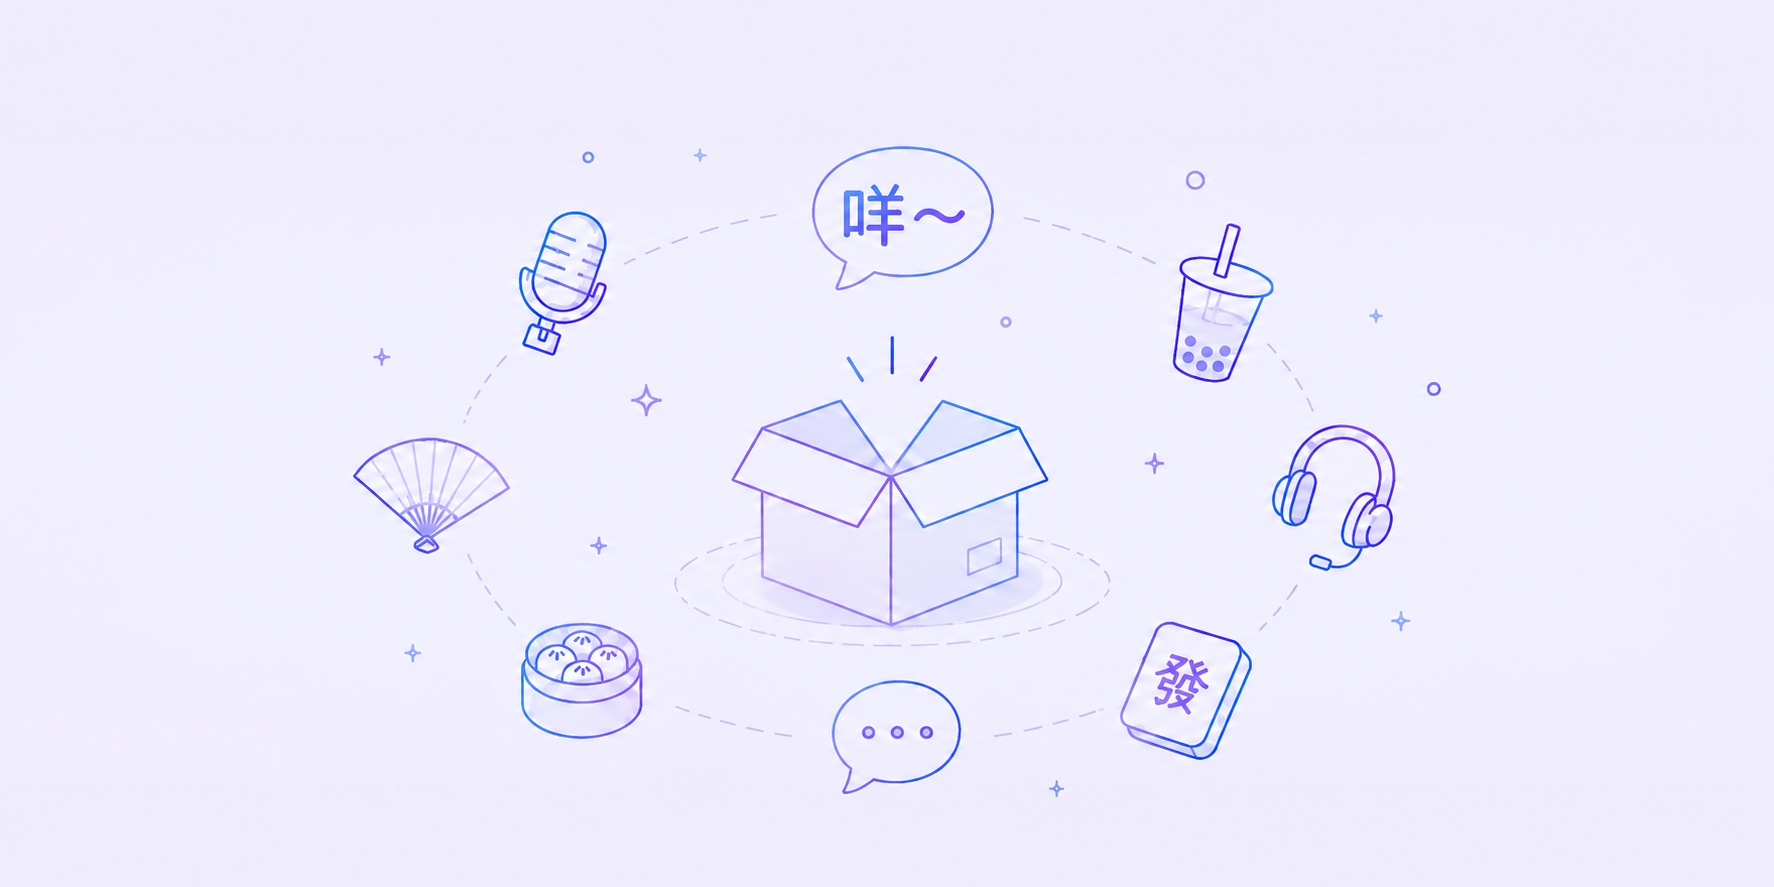
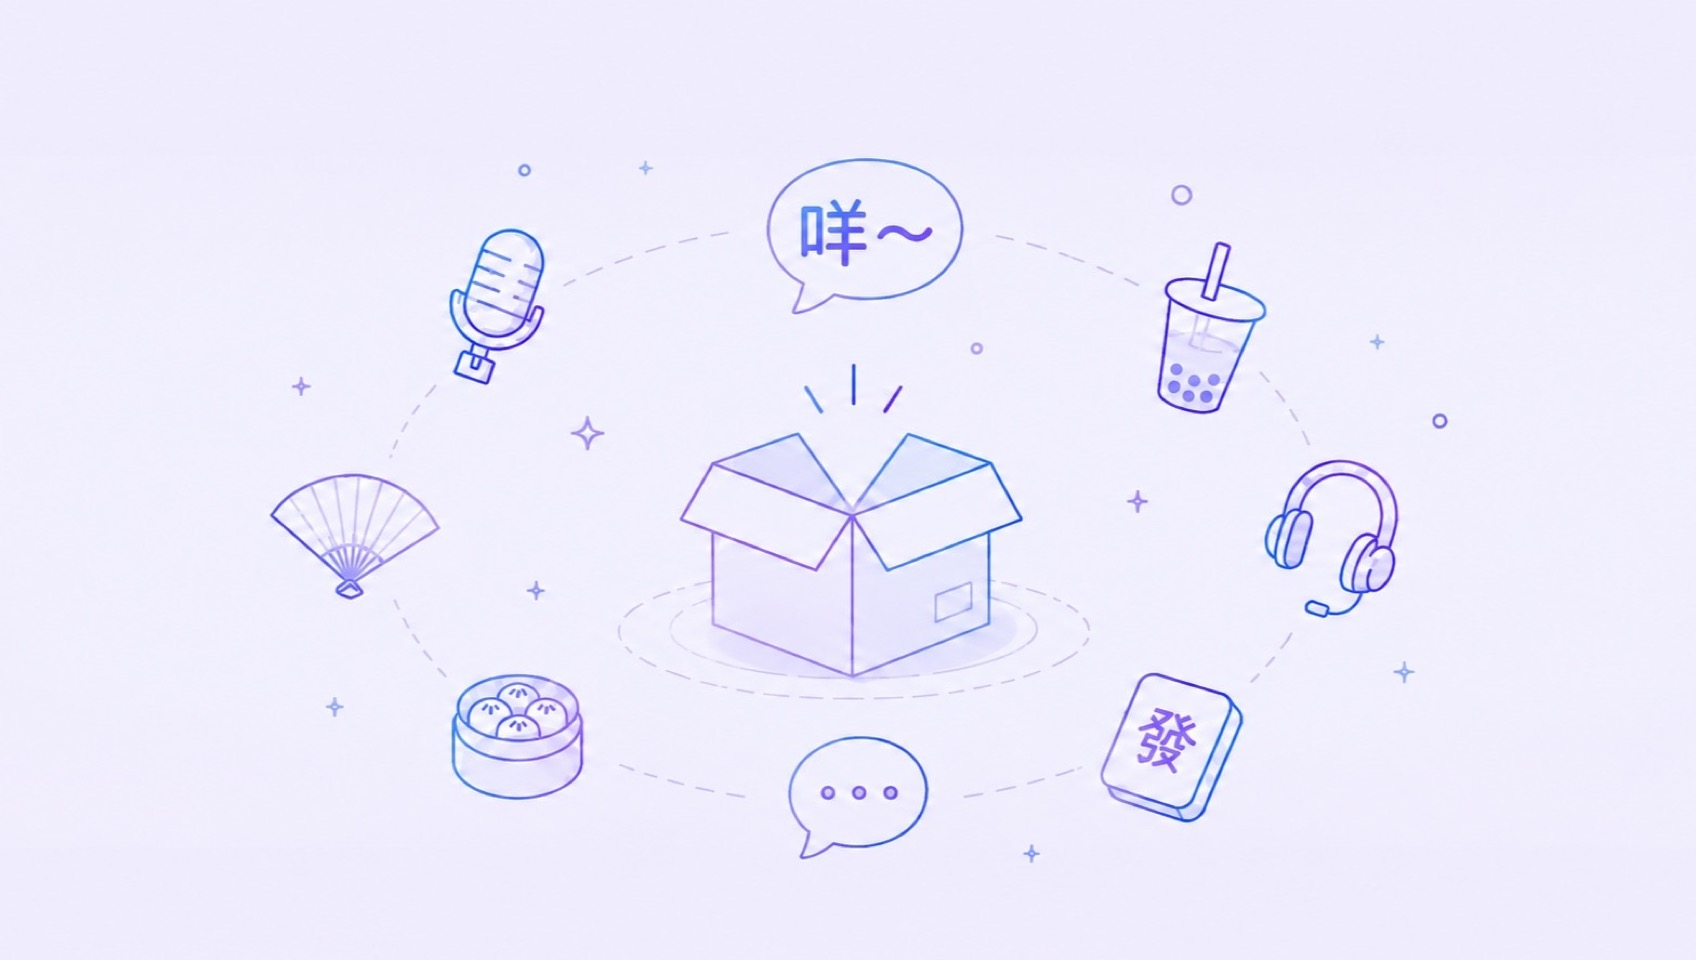
feat: 优化登录提示逻辑，动态调整轮播图高度

diff --git a/miniprogram/pages/featured/featured.ts b/miniprogram/pages/featured/featured.ts
@@ -203,16 +203,14 @@ Page({
 
   onShow() {
     this.syncTheme();
-    if (
-      this.data.shouldResumeJoin &&
-      this.data.joinConsentActivityId &&
-      isLoggedIn()
-    ) {
-      this.setData({
-        shouldResumeJoin: false,
-        joinConsentPopupVisible: true,
-      });
-    }
+    if (!this.data.shouldResumeJoin) return;
+
+    const shouldOpenJoinConsent =
+      Boolean(this.data.joinConsentActivityId) && isLoggedIn();
+    this.setData({
+      shouldResumeJoin: false,
+      ...(shouldOpenJoinConsent ? { joinConsentPopupVisible: true } : {}),
+    });
   },
 
   onContentSwiperChange(e: any) {
@@ -367,7 +365,15 @@ Page({
     if (!isLoggedIn()) {
       promptLogin(
         `/pages/featured/featured?joinActivityId=${encodeURIComponent(itemId)}`,
-        { content: "登录后才能投稿，当前仍可继续浏览精选内容。" },
+        {
+          content: "登录后才能投稿，当前仍可继续浏览精选内容。",
+          returnToPrevious: true,
+          onConfirm: () =>
+            this.setData({
+              joinConsentActivityId: itemId,
+              shouldResumeJoin: true,
+            }),
+        },
       );
       return;
     }

diff --git a/miniprogram/pages/index/index.ts b/miniprogram/pages/index/index.ts
@@ -6,6 +6,12 @@ import { fetchQuery } from "../../utils/query-cache";
 const SHARE_TITLE = `${ENV.title}｜${ENV.subtitle}`;
 const SHARE_PATH = "/pages/index/index";
 const TIMELINE_IMAGE = "/public/image/logo.png";
+const BASE_SWIPER_WIDTH = 375;
+const BASE_SWIPER_HEIGHT = 200;
+
+function getSwiperHeight(windowWidth: number) {
+  return Math.round((windowWidth / BASE_SWIPER_WIDTH) * BASE_SWIPER_HEIGHT);
+}
 
 interface ISwiperList {
   id: string;
@@ -25,6 +31,7 @@ Page({
     bannerImageProps: {
       mode: "widthFix",
     },
+    swiperHeight: BASE_SWIPER_HEIGHT,
     swiperList: [],
 
     cardList: [],
@@ -37,6 +44,7 @@ Page({
   loadMoreObserver: null as any,
 
   async onLoad() {
+    this.updateSwiperHeight(wx.getSystemInfoSync().windowWidth);
     this.syncTheme();
     wx.showShareMenu({
       menus: ["shareAppMessage", "shareTimeline"],
@@ -57,6 +65,14 @@ Page({
 
   onShow() {
     this.syncTheme();
+  },
+
+  onResize(res: WechatMiniprogram.OnWindowResizeCallbackResult) {
+    this.updateSwiperHeight(res.size.windowWidth);
+  },
+
+  updateSwiperHeight(windowWidth: number) {
+    this.setData({ swiperHeight: getSwiperHeight(windowWidth) });
   },
 
   syncTheme() {

diff --git a/miniprogram/utils/auth.ts b/miniprogram/utils/auth.ts
@@ -1,6 +1,8 @@
 interface LoginPromptOptions {
   content?: string;
   replaceCurrentPage?: boolean;
+  returnToPrevious?: boolean;
+  onConfirm?: () => void;
 }
 
 const DEFAULT_LOGIN_PROMPT = "登录后才能使用该功能，当前仍可继续浏览公开内容。";
@@ -25,8 +27,14 @@ export function isLoggedIn(): boolean {
   );
 }
 
-function getLoginUrl(redirectUrl: string): string {
-  return `/pages/login/login?redirect=${encodeURIComponent(redirectUrl)}`;
+function getLoginUrl(
+  redirectUrl: string,
+  returnToPrevious = false,
+): string {
+  return (
+    `/pages/login/login?redirect=${encodeURIComponent(redirectUrl)}` +
+    (returnToPrevious ? "&returnToPrevious=1" : "")
+  );
 }
 
 function getCurrentPageUrl(): string {
@@ -85,7 +93,11 @@ export function promptLogin(
     confirmText: "去登录",
     cancelText: "暂不登录",
     onConfirm: () => {
-      const loginUrl = getLoginUrl(redirectUrl);
+      options.onConfirm?.();
+      const loginUrl = getLoginUrl(
+        redirectUrl,
+        options.returnToPrevious === true,
+      );
       if (options.replaceCurrentPage) {
         wx.redirectTo({ url: loginUrl });
       } else {

diff --git a/miniprogram/pages/tracks/tracks.ts b/miniprogram/pages/tracks/tracks.ts
@@ -103,12 +103,12 @@ Page({
 
   onShow() {
     this.syncTheme();
-    if (this.data.shouldResumeJoin && isLoggedIn()) {
-      this.setData({
-        shouldResumeJoin: false,
-        joinConsentPopupVisible: true,
-      });
-    }
+    if (!this.data.shouldResumeJoin) return;
+
+    this.setData({
+      shouldResumeJoin: false,
+      ...(isLoggedIn() ? { joinConsentPopupVisible: true } : {}),
+    });
   },
 
   onReachBottom() {
@@ -256,6 +256,8 @@ Page({
     if (!isLoggedIn()) {
       promptLogin(`/pages/tracks/tracks?id=${this.data.trackId}&join=1`, {
         content: "登录后才能投稿，当前仍可继续浏览活动内容。",
+        returnToPrevious: true,
+        onConfirm: () => this.setData({ shouldResumeJoin: true }),
       });
       return;
     }

diff --git a/miniprogram/pages/post/post.ts b/miniprogram/pages/post/post.ts
@@ -1120,7 +1120,10 @@ Page({
     this.pendingPageExit = true;
     wx.disableAlertBeforeUnload();
     if (this.data.exitGuardVisible) {
-      this.setData({ exitGuardVisible: false });
+      this.setData({ exitGuardVisible: false }, () => {
+        // 某些设备取消边缘手势时不会稳定触发 afterleave，主动完成真实页面退出。
+        wx.nextTick(() => this.finishPostPageExit());
+      });
       return;
     }
     this.finishPostPageExit();
